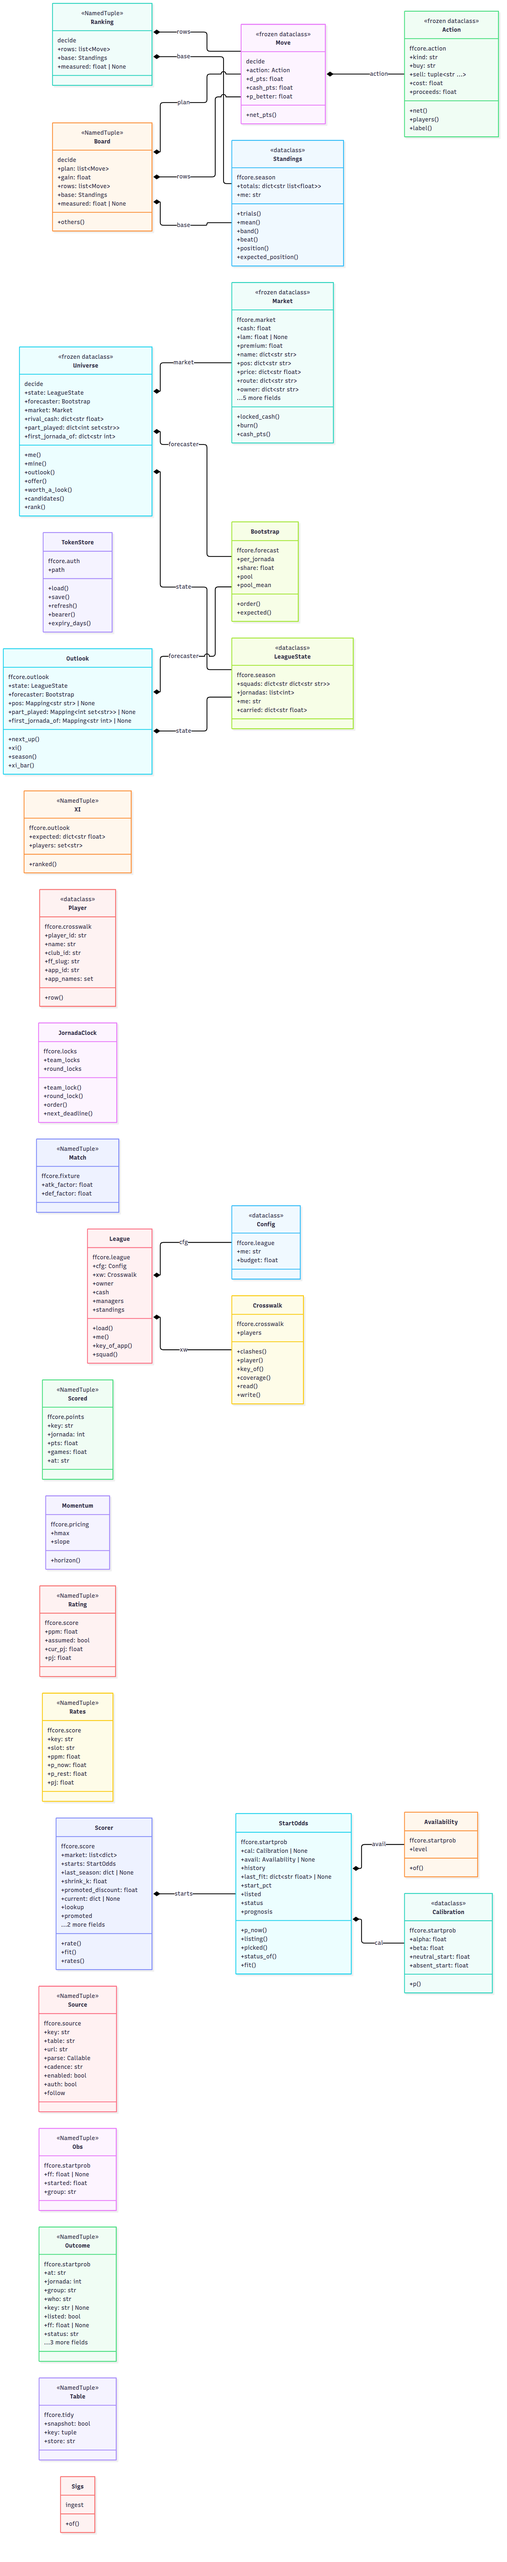
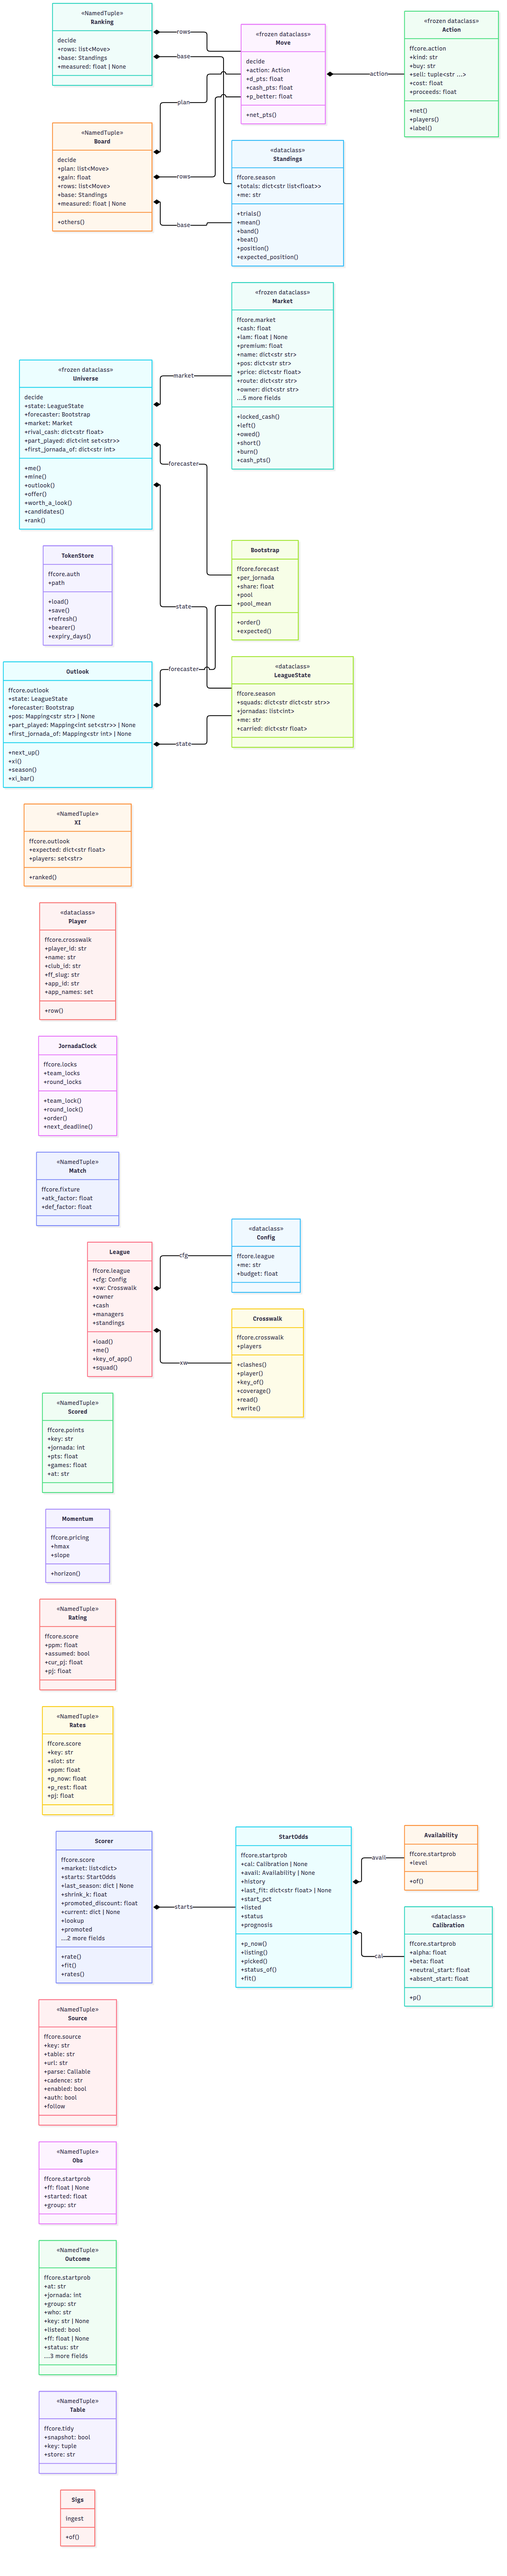
Money rules live in Market: what is left, owed, and short
Cash after a set of moves, the debt still to raise before the lock and
whether a move can be paid for were worked out in rank, fill, blocked and
twice in ask.py. Market.left/owed/short now say it once; decide only
chooses (which sales clear the debt needs points). Same 16 golden boards.

diff --git a/src/decide.py b/src/decide.py
@@ -136,12 +136,11 @@ class Universe:
         screen = score_many(self, [self.state.squads]
                             + [apply(self, a) for a in acts], SCREEN_TRIALS, seed)
         gains = [median_gain(paired(r, screen[0], self.me)) for r in screen[1:]]
-        budget = max(m.cash, 0.0)  # in debt, a sale is still affordable
-        measured = cash_price([(a.net - budget, d) for a, d in zip(acts, gains)])
+        measured = cash_price([(m.short(a), d) for a, d in zip(acts, gains)])
         lam = m.lam if m.lam is not None else (measured or 0.0)
         best: dict = {}
         for a, d in zip(acts, gains):
-            if a.net > budget:
+            if m.short(a) > 0:
                 continue
             key, way = (d + m.cash_pts(a, lam), -a.net), (a.buy or a.sell, bool(a.buy and a.sell))
             if way not in best or key > best[way][0]:
@@ -192,15 +191,15 @@ def clear_debt(u, rows: list[Move], base: Standings) -> list[Move]:
     with none to spare and leave a side you can field, the one that loses
     fewest points together. Sales interact (two defenders sold thin your
     defence), so the sets their losses alone rank best are scored jointly."""
-    debt = -u.market.cash
-    if debt <= 0:
+    m = u.market
+    if not m.owed():
         return []
     sales = [r for r in rows if not r.action.buy and r.action.net < 0]
 
     def clears(c) -> bool:
-        raised = sum(r.action.proceeds for r in c)
-        gone = {k for r in c for k in r.action.sell}
-        return (raised >= debt and all(raised - r.action.proceeds < debt for r in c)
+        acts = [r.action for r in c]
+        gone = {k for a in acts for k in a.sell}
+        return (not m.owed(acts) and all(m.owed([b for b in acts if b is not a]) for a in acts)
                 and _fieldable({k: s for k, s in u.mine.items() if k not in gone}))
     sets = [c for n in range(1, DEBT_SALES + 1)
             for c in itertools.combinations(sales, n) if clears(c)]
@@ -215,17 +214,16 @@ def fill(u, good: list[Move], base: Standings, order,
     and adds to their joint gain; again until none is taken, so a sale
     taken late still pays for a buy."""
     picked = list(start)
-    cash = u.market.cash - sum(r.action.net for r in picked)
     gain, grew = joint_gain(u, picked, base) if picked else 0.0, True
     while grew:
         grew = False
         for r in sorted(good, key=order):
-            if r in picked or blocked(u, picked, r.action, cash):
+            if r in picked or blocked(u, picked, r.action):
                 continue
             total = joint_gain(u, [*picked, r], base)
             if total > gain:
                 picked.append(r)
-                cash, gain, grew = cash - r.action.net, total, True
+                gain, grew = total, True
     return picked, gain
 
 
@@ -236,7 +234,7 @@ def joint_gain(u, moves: list[Move], base: Standings) -> float:
         u.market.cash_pts(a) for a in acts)
 
 
-def blocked(u, picked: list[Move], a: Action, cash: float) -> str | None:
+def blocked(u, picked: list[Move], a: Action) -> str | None:
     """Why a move cannot join these: it shares a player with one of them,
     or the cash they leave does not pay for it. None if it can."""
     names = {k: title_name(n) for k, n in u.market.name.items()}
@@ -244,8 +242,9 @@ def blocked(u, picked: list[Move], a: Action, cash: float) -> str | None:
         if shared := set(p.action.players) & set(a.players):
             return "%s is in %s" % (" + ".join(names.get(k, k) for k in shared),
                                     p.action.label(names))
-    if a.net > cash:
-        return "it needs %.1fM and %.1fM is left" % (a.net / 1e6, cash / 1e6)
+    done = [p.action for p in picked]
+    if u.market.short(a, done) > 0:
+        return "it needs %.1fM and %.1fM is left" % (a.net / 1e6, u.market.left(done) / 1e6)
     return None
 
 

diff --git a/src/ffcore/market.py b/src/ffcore/market.py
@@ -34,6 +34,21 @@ class Market:
     def locked_cash(self) -> float:
         return sum(self.my_bid.values())
 
+    def left(self, acts=()) -> float:
+        """Your cash once these moves are made."""
+        return self.cash - sum(a.net for a in acts)
+
+    def owed(self, acts=()) -> float:
+        """What these moves leave to raise before the lock: a balance below
+        zero at the matchday's start scores nothing."""
+        return max(0.0, -self.left(acts))
+
+    def short(self, a: Action, acts=()) -> float:
+        """How much more than the cash these moves leave a move needs; at
+        most 0 if it can be made. In debt there is nothing to spend, but
+        a move that raises money can still be made."""
+        return a.net - max(self.left(acts), 0.0)
+
     def burn(self, a: Action) -> float | None:
         """What a buy costs above the player's value; its cost is what you
         pay (for an auction, the bid it takes to win)."""
@@ -86,6 +101,12 @@ def pending(rows, status_field: str, money_field: str) -> dict[str, float]:
 
 
 def _selftest() -> None:
+    debt = Market(cash=-5e6)
+    sale, buy = Action("sell", sell=("s",), proceeds=3e6), Action("buy", buy="b", cost=1e6)
+    assert debt.owed() == 5e6 and debt.owed([sale]) == 2e6 and debt.left([sale]) == -2e6
+    assert debt.short(sale) <= 0 < debt.short(buy), "in debt, only what raises money"
+    assert Market(cash=2e6).short(buy, [sale]) == 1e6 - 5e6
+
     m = Market(value={"star": 5e6, "free": 4e6})
     assert m.burn(Action("buy", buy="star", cost=8e6)) == 3e6
     assert m.burn(Action("buy", buy="free", cost=4e6)) == 0.0

diff --git a/tools/ask.py b/tools/ask.py
@@ -73,9 +73,8 @@ def fate(u, b, r) -> str:
                     "in the plan to clear your debt before the lock")
     if (no := verdict(r)) is not None:
         return step(verdict, no)
-    cash = u.market.cash - sum(p.action.net for p in b.plan)
     return step(plan, "clears the bar, left out: %s" % (
-        blocked(u, b.plan, r.action, cash) or "it adds nothing alongside the plan"))
+        blocked(u, b.plan, r.action) or "it adds nothing alongside the plan"))
 
 
 def why(u, k: str) -> None:
@@ -137,7 +136,7 @@ def whatif(u, words: list[str]) -> None:
     picked, gain = plan(u, [*b.plan, mv], b.base)
     print(step(plan, "the plan would take it: together %+.1f, against %+.1f" % (gain, b.gain)
                if mv in picked else "clears the bar, but alongside the board's plan: %s" % (
-                   blocked(u, b.plan, mv.action, m.cash - sum(p.action.net for p in b.plan))
+                   blocked(u, b.plan, mv.action)
                    or "it adds nothing to it")))
 
 

diff --git a/README.md b/README.md
@@ -78,8 +78,8 @@ Every forecast is the same product, for every player and jornada, and
   read a table themselves.
 - **Moves** (`decide.py`): the `Universe` joins an `Outlook`
   (`ffcore/outlook.py`: expected points and the best eleven, no money) to
-  a `Market` (`ffcore/market.py`: names, prices, values, your cash and
-  bids, no points). A player comes from the market, at the bid it takes
+  a `Market` (`ffcore/market.py`: names, prices, values, your cash, bids
+  and debt, no points). A player comes from the market, at the bid it takes
   to win the auction, or from a rival by paying his release clause, as it
   stands and at once (he leaves the rival's squad, who gets the money;
   only once his protection after his last transfer has ended). Every
@@ -130,7 +130,8 @@ which move wins.
   refuses a closed one anyway.
 - **A negative balance at the matchday's start scores 0 points; debt is
   capped at 20% of team value.** Enforced by the plan
-  (`decide.clear_debt` sells before the lock) and by the app (bids).
+  (`Market.owed` is what must be raised, `decide.clear_debt` picks the
+  sales) and by the app (bids).
 - **Raising a clause costs half the raise** (1M pays for +2M). Not modelled:
   the board lists who is at risk, not what protecting them would cost.
 - **Blindaje:** one player per matchday is shielded from clauses for 24h
